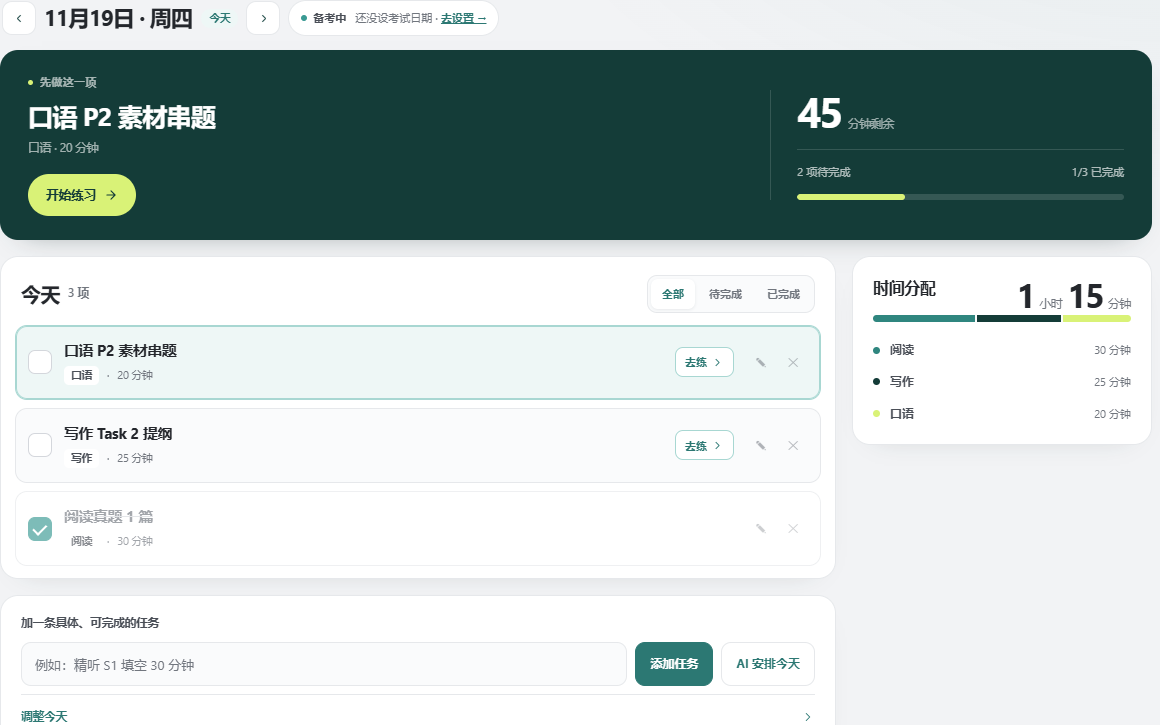
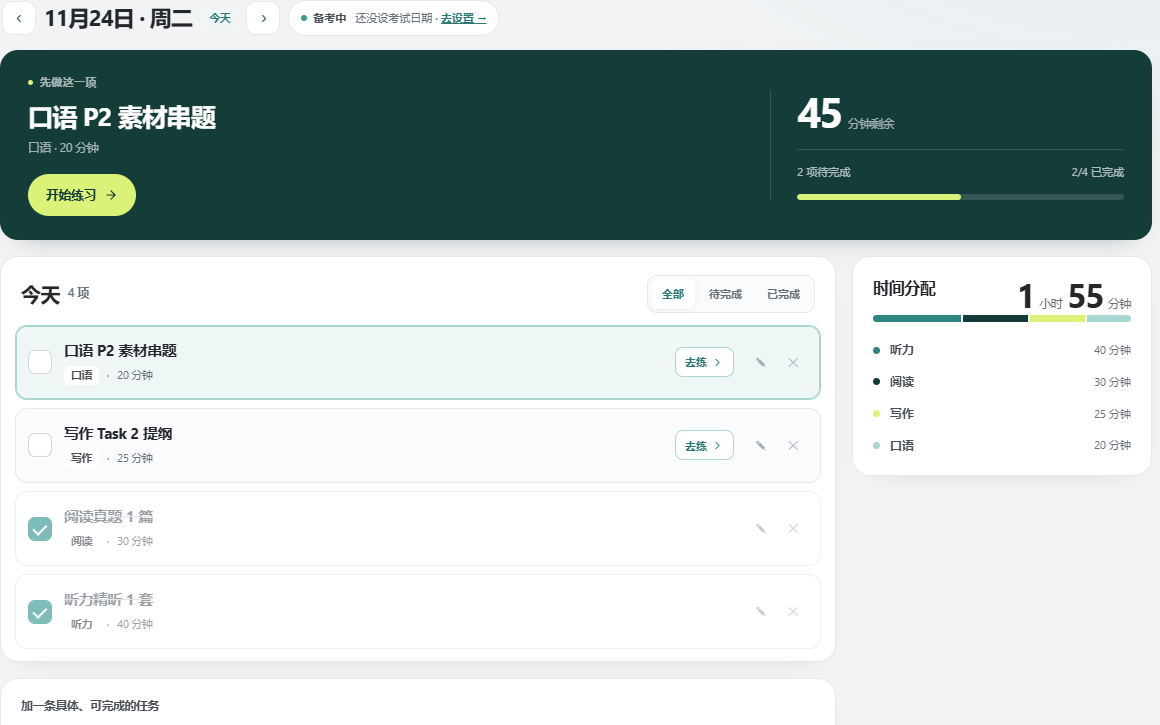
chore(landing): refresh 今日计划 hero screenshot (?v=931 -> 932)

diff --git a/index.html b/index.html
@@ -10,14 +10,14 @@
 <meta property="og:url" content="https://yasihub.com/">
 <meta property="og:title" content="雅思备考 Hub｜今天该练什么，打开就知道">
 <meta property="og:description" content="627 篇阅读与听力练习、89 条口语题卡、42 套写作模板，加上每日清单、AI 批改和成绩回顾。">
-<meta property="og:image" content="https://yasihub.com/img/landing/plans-demo.png?v=931">
+<meta property="og:image" content="https://yasihub.com/img/landing/plans-demo.png?v=932">
 <meta property="og:image:alt" content="雅思备考 Hub 今日计划真实界面">
 <meta property="og:site_name" content="雅思备考 Hub">
 <meta property="og:locale" content="zh_CN">
 <meta name="twitter:card" content="summary_large_image">
 <meta name="twitter:title" content="雅思备考 Hub｜今天该练什么，打开就知道">
 <meta name="twitter:description" content="627 篇阅读与听力练习、89 条口语题卡、42 套写作模板，加上每日清单、AI 批改和成绩回顾。">
-<meta name="twitter:image" content="https://yasihub.com/img/landing/plans-demo.png?v=931">
+<meta name="twitter:image" content="https://yasihub.com/img/landing/plans-demo.png?v=932">
 <link rel="canonical" href="https://yasihub.com/">
 <title>雅思备考 Hub｜今天该练什么，打开就知道</title>
 <script>
@@ -116,7 +116,7 @@
     <div class="hero-visual">
       <div class="shot">
         <div class="shot-bar"><span class="shot-dots"><i></i><i></i><i></i></span>YASIHUB / TODAY<span class="shot-status"><i></i>今天 1 / 3 已完成</span></div>
-        <img src="img/landing/plans-demo.png?v=931" width="1160" height="725" alt="雅思备考 Hub 今日计划真实界面，显示待练任务、剩余时间和完成进度" fetchpriority="high">
+        <img src="img/landing/plans-demo.png?v=932" width="1160" height="725" alt="雅思备考 Hub 今日计划真实界面，显示待练任务、剩余时间和完成进度" fetchpriority="high">
         <div class="shot-foot"><span>每日清单 · 做完打勾</span><span>真实页面 · 演示数据</span></div>
       </div>
     </div>
